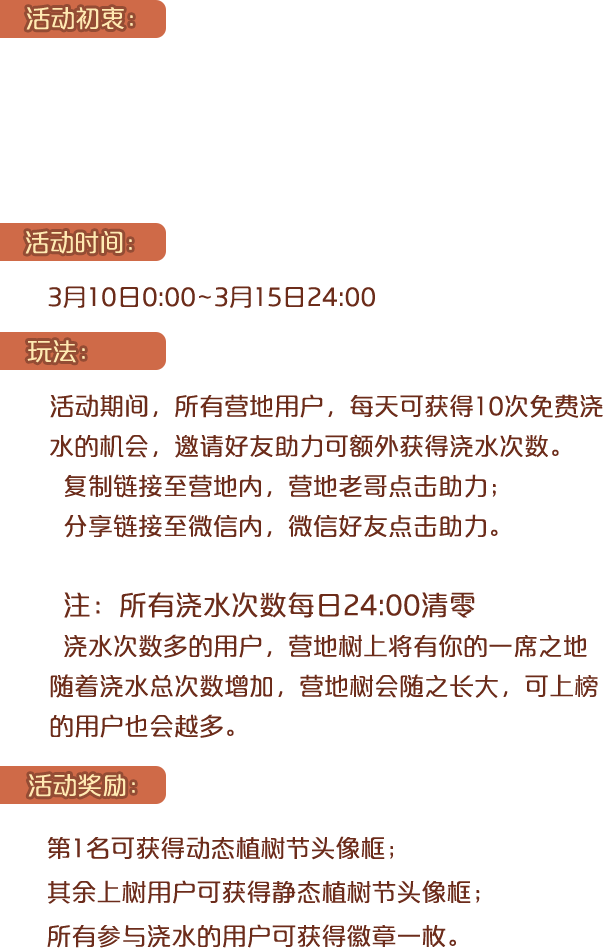
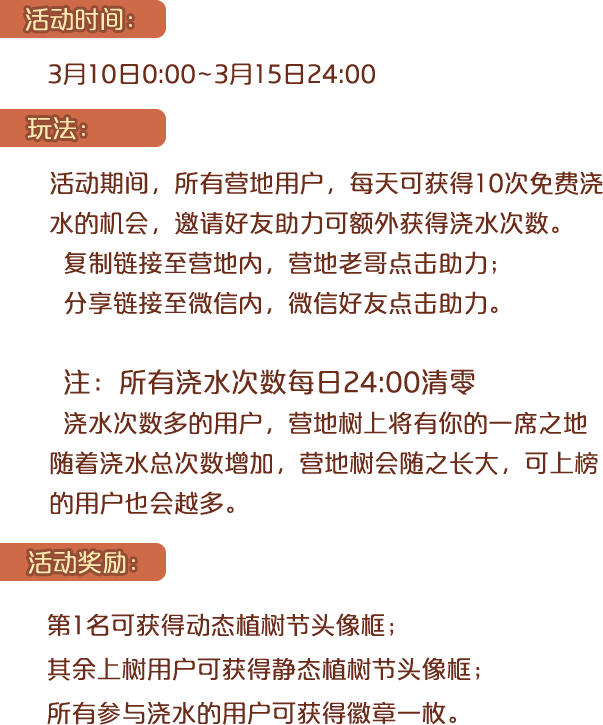
KILROY

diff --git a/_KilroyProject/_Project/_Demo/Web/application/module/PlantTree/index.ts b/_KilroyProject/_Project/_Demo/Web/application/module/PlantTree/index.ts
@@ -3,14 +3,7 @@ import _Stage from '../../interface/stage';
 
 import '../../../resource/css/PlantTree/public.less';
 import '../../../resource/css/PlantTree/index.less';
-
-interface UserInfo { // 用户信息
-    rank: number,
-    user_id: number,
-    nick_name: string,
-    photo: string,
-    exp: number
-}
+import { set } from "animejs";
 
 /**
  * 首页
@@ -31,7 +24,10 @@ export default class Index implements _Stage {
             </div>
             <div id="button_water" class="button button_water"></div>
             <div id="button_explain" class="button button_explain"></div>
-            <div id="button_share" class="button button_share"></div>`,
+            <div id="button_share" class="button button_share"></div>
+            <div id="box_water" class="box_water">
+                <i></i><i></i><i></i><i></i><i></i><i></i>
+            </div>`,
         add: `<div class="progress_add t_1 i_1"><span>+1</span></div>`,
         popup: `<div class="popup_content"><div class="image"></div></div>`
     };
@@ -41,15 +37,15 @@ export default class Index implements _Stage {
         explain: null // 说明弹窗
     };
     private readonly switchList: any = { // 开关列表
-        updateData: true, // 更新数据
+        info: true, // 获取信息
         water: true // 浇水
     };
     private readonly setTimeList: any = { // 定时器列表
-        updateData: null, // 更新数据
+        info: null, // 获取信息
         water: null // 浇水
     };
     private treeList: string[] = []; // 树列表
-    private rankList: UserInfo[] = []; // 排名列表
+    private rankList: any[] = []; // 排名列表
     private fraction: number = 0; // 世界已浇水次数
     private level: number = 0; // 世界等级
     private server: any = { // 服务器
@@ -78,8 +74,6 @@ export default class Index implements _Stage {
         
         _this.create();
         _this.init();
-        
-        _this.getInfo(true);
     }
     
     /**
@@ -122,6 +116,11 @@ export default class Index implements _Stage {
         $('#popup_explain .box_popup').click((e: Event) => {
             e.stopPropagation();
         });
+        
+        _this.getInfo(true);
+        _this.setTimeList.info = setInterval(() => {
+            _this.getInfo();
+        }, 60 * 1000);
     }
     
     /**
@@ -181,7 +180,7 @@ export default class Index implements _Stage {
     }
     
     /**
-     * 更新树
+     * 更新树列表
      * @return {void}
      */
     private updateTree(): void {
@@ -266,6 +265,14 @@ export default class Index implements _Stage {
     }
     
     /**
+     * 浇水动画
+     * @return {void}
+     */
+    private waterAnimation(): void {
+        const _this = this;
+    }
+    
+    /**
      * 获取随机数
      * 结果不与上次相同
      * @param {number} prev 上一次结果
@@ -286,8 +293,8 @@ export default class Index implements _Stage {
         const _this = this,
             level = _this.level;
         
-        if (!_this.switchList.updateData) return;
-        _this.switchList.updateData = false;
+        if (!_this.switchList.info) return;
+        _this.switchList.info = false;
         
         _this.ajax(
             '/tree/info',
@@ -298,7 +305,7 @@ export default class Index implements _Stage {
             (result: any) => {
                 const data = result.data;
                 
-                _this.switchList.updateData = true;
+                _this.switchList.info = true;
                 
                 if (result.retCode !== 0) {
                     alert(result.retMsg);
@@ -321,7 +328,7 @@ export default class Index implements _Stage {
                 if (isScroll) _this.scrollUser();
             },
             (e: Event) => {
-                _this.switchList.updateData = true;
+                _this.switchList.info = true;
             }
         );
     }

diff --git a/_KilroyProject/_Project/_Demo/Web/resource/css/PlantTree/index.less b/_KilroyProject/_Project/_Demo/Web/resource/css/PlantTree/index.less
@@ -45,6 +45,28 @@ body {
   }
 }
 
+.button {
+  //&:hover {
+  //  opacity: 0.7;
+  //}
+
+  &.button_water {
+    .position(bottom, 130*@px);
+    margin: 0 auto;
+    .bg('button_water.png', 312*@px, 102*@px, true);
+  }
+
+  &.button_explain {
+    .position(absolute, auto, auto, 30*@px, 50*@px);
+    .bg('button_explain.png', 145*@px, 159*@px, true);
+  }
+
+  &.button_share {
+    .position(absolute, auto, 50*@px, 30*@px, auto);
+    .bg('button_share.png', 145*@px, 160*@px, true);
+  }
+}
+
 .box_progress {
   .position(top, 50*@px);
   margin: 0 auto;
@@ -125,28 +147,6 @@ body {
     &:nth-child(3) {
       .position(bottom);
     }
-  }
-}
-
-.button {
-  &:hover {
-    opacity: 0.7;
-  }
-
-  &.button_water {
-    .position(bottom, 130*@px);
-    margin: 0 auto;
-    .bg('button_water.png', 312*@px, 102*@px, true);
-  }
-
-  &.button_explain {
-    .position(absolute, auto, auto, 30*@px, 50*@px);
-    .bg('button_explain.png', 145*@px, 159*@px, true);
-  }
-
-  &.button_share {
-    .position(absolute, auto, 50*@px, 30*@px, auto);
-    .bg('button_share.png', 145*@px, 160*@px, true);
   }
 }
 
@@ -936,6 +936,45 @@ body {
   }
 }
 
+.box_water {
+  @w: 576*@px;
+  @h: 380*@px;
+  .position(fixed, 0, 0, 0, 0);
+  width: @w;
+  height: @h;
+  margin: auto;
+  pointer-events: none;
+
+  i {
+    .position();
+    opacity: 0;
+
+    &:nth-child(1) {
+      .bg('water_1.png', @w, @h, true);
+    }
+
+    &:nth-child(2) {
+      .bg('water_2.png', @w, @h, true);
+    }
+
+    &:nth-child(3) {
+      .bg('water_3.png', @w, @h, true);
+    }
+
+    &:nth-child(4) {
+      .bg('water_4.png', @w, @h, true);
+    }
+
+    &:nth-child(5) {
+      .bg('water_5.png', @w, @h, true);
+    }
+
+    &:nth-child(6) {
+      .bg('water_6.png', @w, @h, true);
+    }
+  }
+}
+
 .popup_explain {
   .box_popup {
     background: fade(@color_1, 0);
@@ -958,17 +997,15 @@ body {
       }
 
       .popup_content {
-        overflow-y: auto;
-        .scroll();
         .position(top, 160*@px);
-        height: 720*@px;
+        height: 725*@px;
         margin: 0 auto;
         background-repeat: repeat-y;
 
         .image {
           position: relative;
           margin-left: 35*@px;
-          .bg('popup_content.png', 603*@px, 948*@px, true);
+          .bg('popup_content.png', 603*@px, 725*@px, true);
         }
       }
     }
